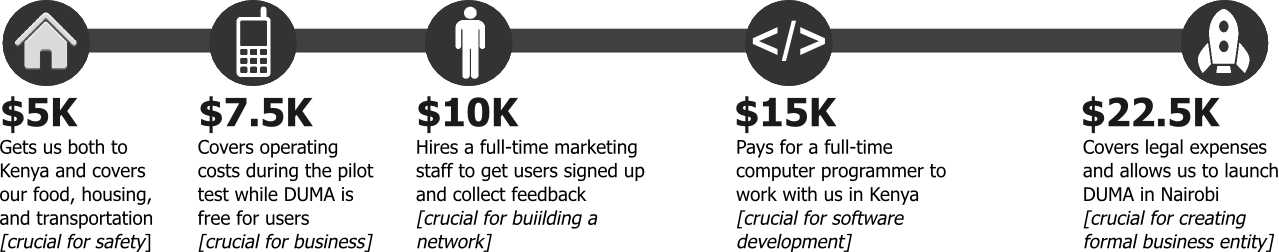
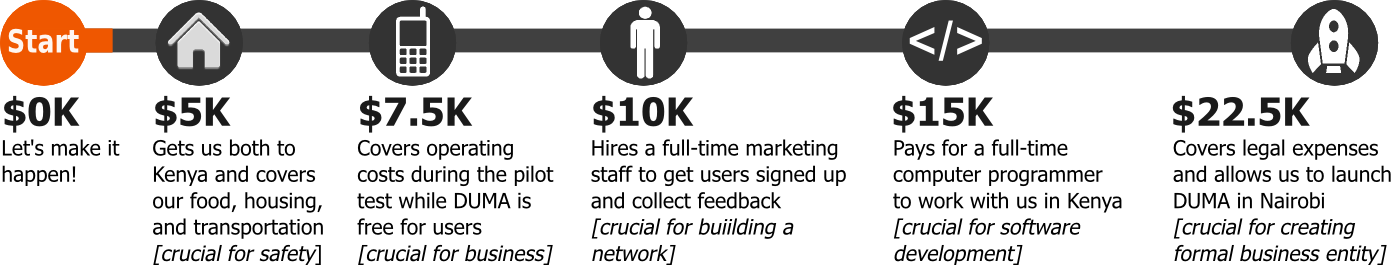
message of the changes you made

diff --git a/registry.php b/registry.php
@@ -33,7 +33,6 @@
 										<br> <b>WHO:</b> A couple of <a href="http://www.dumaworks.com/team.php" target="_blank">recent Princeton grads</a> who decided that helping their friends in Kenya find jobs could and should be scaled. Read about our work in Forbes Magazine, Princeton Alumni Weekly, and The Daily Princetonian <a href="http://www.dumaworks.com/press.php" target="_blank"><b><i>here.</b></i></a> </br>
 										<br> <b>THE ASK:</b> Your support for DUMA’s pilot test will provide us with essential community feedback on our initial product and create the beginnings of our hiring network. We are moving to Kenya this September, and in just 3 months, we need to register over 15,000 users, 50 businesses, and make at least 1000 job connections… and we need your help to do it. </br>
  
-									<br> <img src="images/funding goal.png" style="margin-left:0px;" width="760x" height="150px"></img></br>
 
 										<br> Support our efforts by choosing a gift from the registry below or making a general contribution:</br>
 										
@@ -42,8 +41,13 @@
 											<input type="hidden" name="hosted_button_id" value="4BVTNB2FECJPE">
 										<button class="btn medium orange" style="line-height:18px;font-size:14px;font-weight:lighter;font-family: 'Tahoma', sans-serif;margin-left:0px;margin-top: 0px;align:center;">Contribute through PayPal</button>
 										<p></p><p><a href="https://venmo.com?txn=Pay&recipients=Duma&note=to%20help%20DUMA%20launch%20in%20Kenya!&share=vft" target="_blank"><img src="images/venmo.png" style="width:193px"/></a></p>
-										</form> </td> </tr>
-																				 	
+										</form>
+										
+
+										<tr><td style="padding-left:35px;padding-bottom:20px;padding-right:35px;width:900px;font-family: 'Tahoma', sans-serif; margin-left:auto;text-align: justify; color:#444444; font-size: 18px; line-height: 18px;"> <b>AMOUNT RAISED:</b> $500
+										<p><img src="images/funding goal.png" style="margin-left:0px;margin-top:15px;" width="762x" height="150px"></img></p>
+ 										</td> </tr>
+								 	
  										<tr><td style="padding-left:35px;padding-right:25px;padding-bottom:10px;"> <div class="fb-like" data-href="http://www.dumaworks.com/registry.php" data-send="true" data-width="450" data-show-faces="false"></div></td></tr>
 
 
